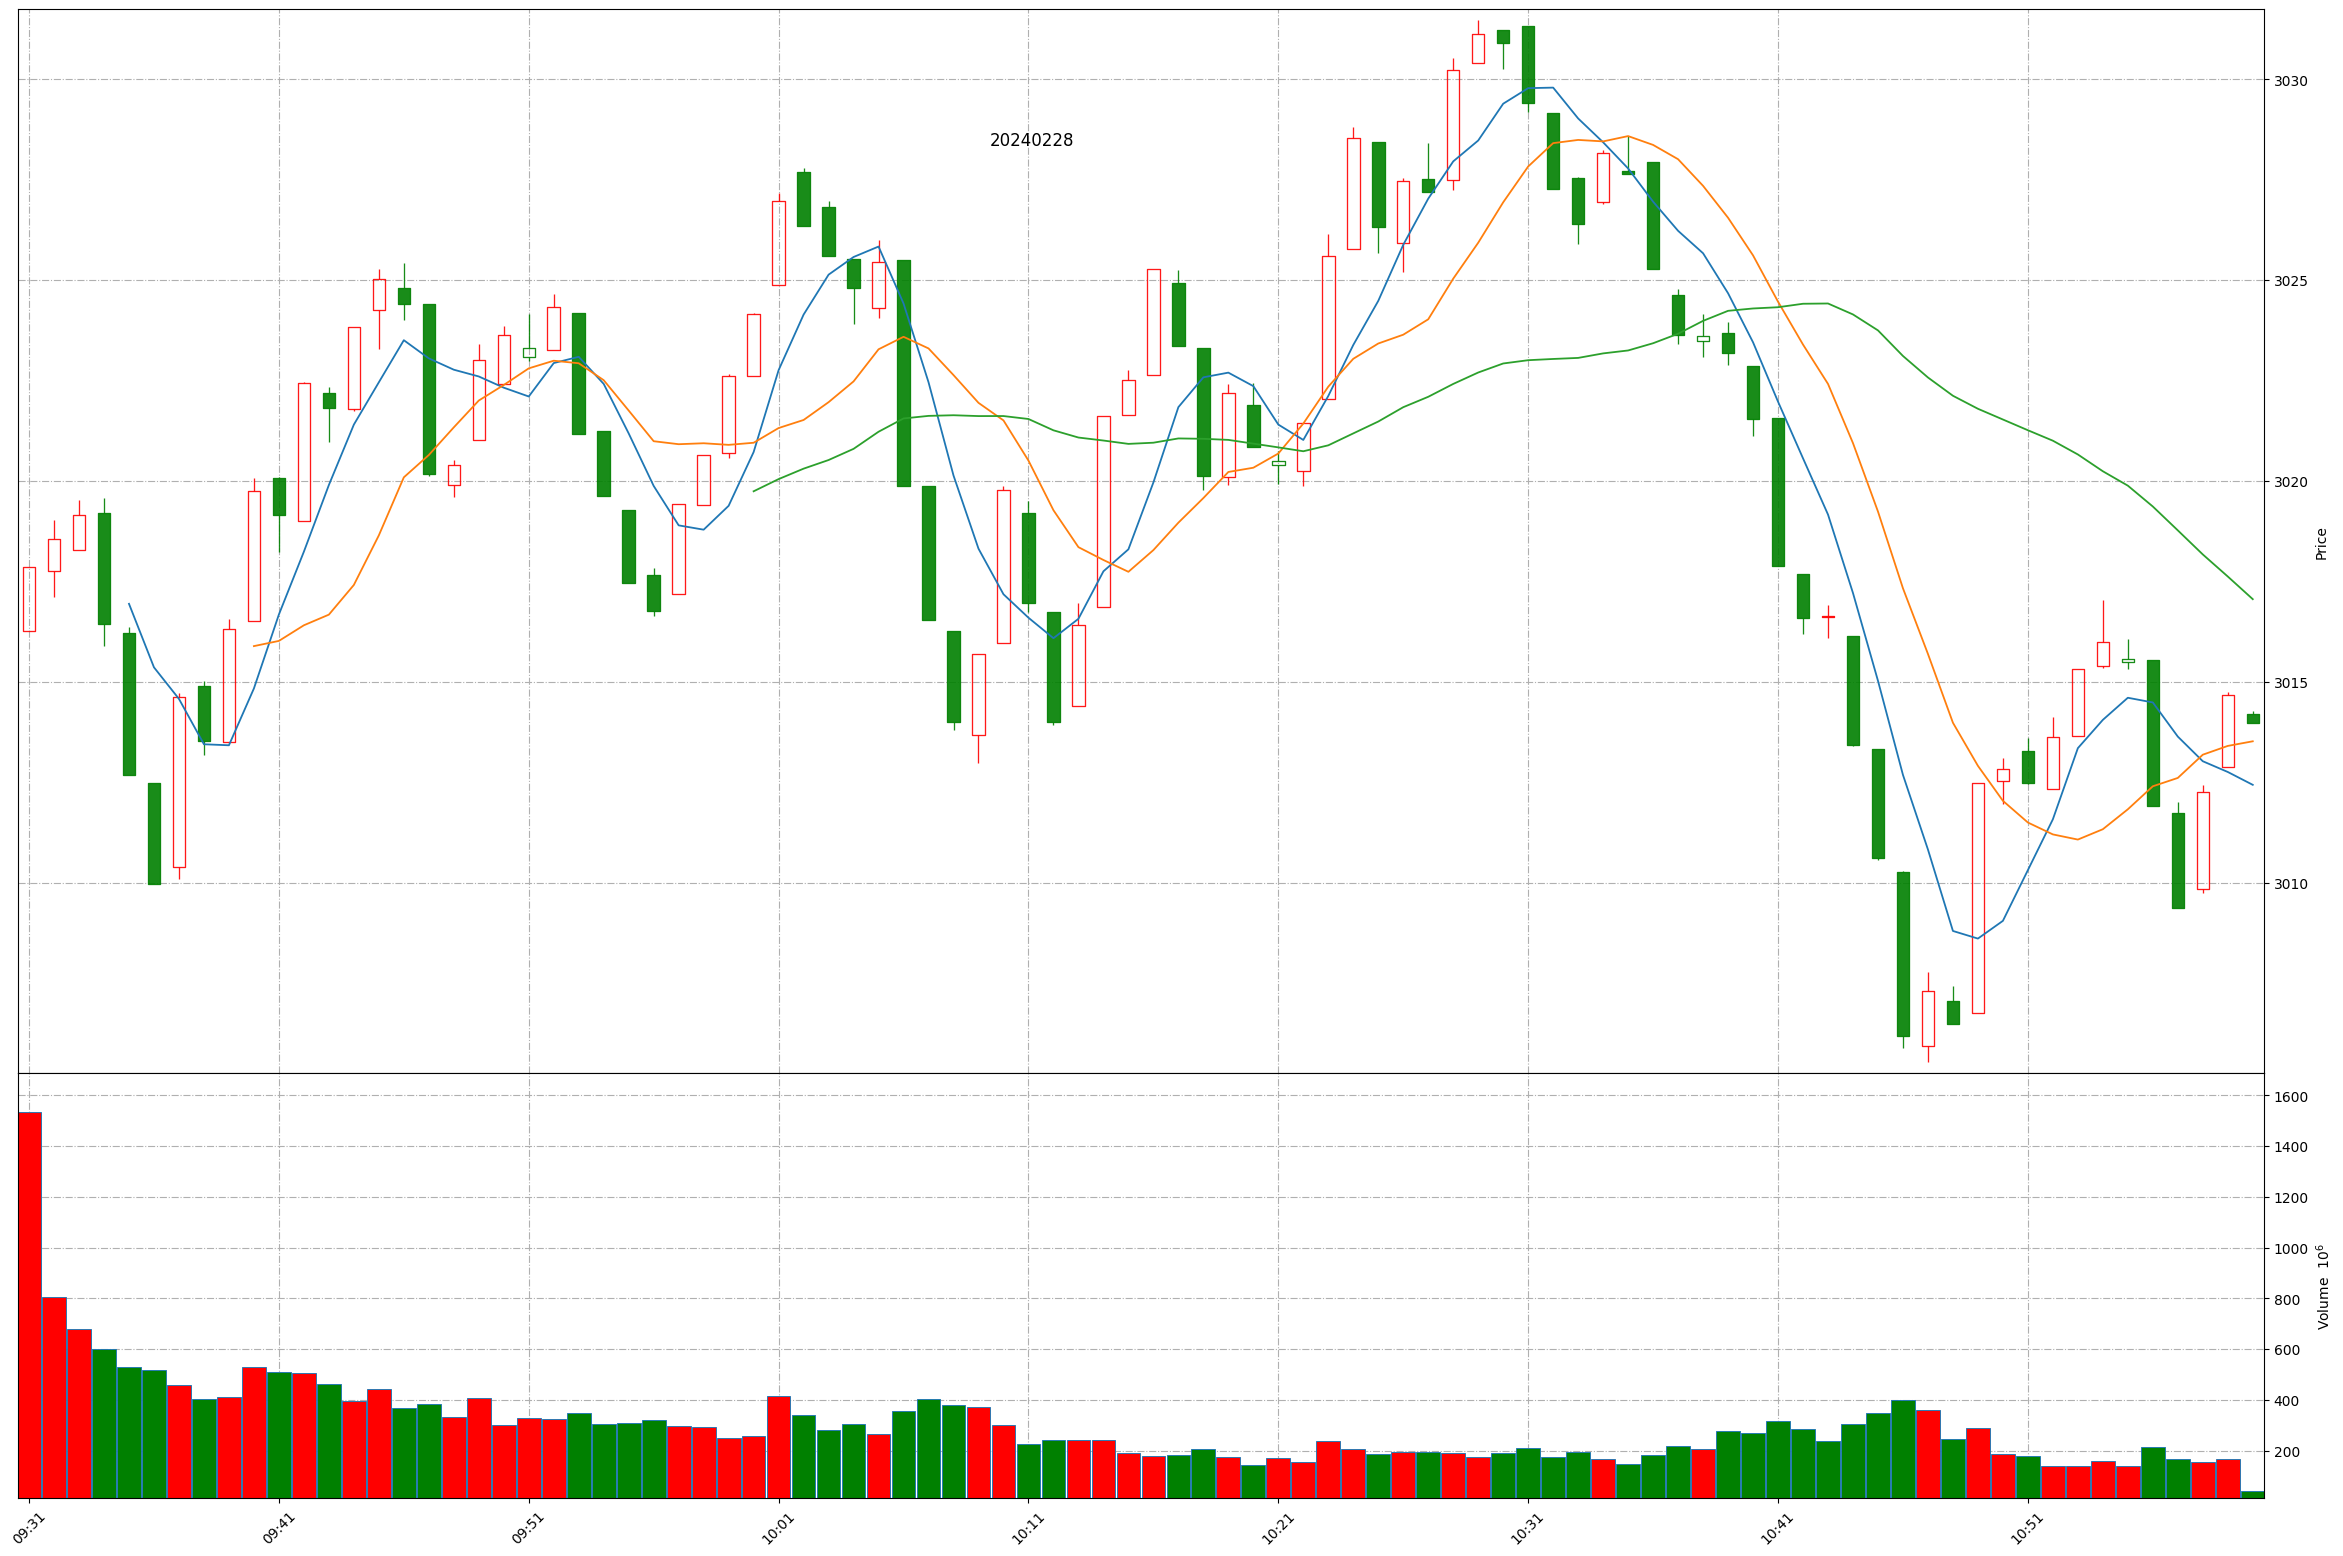
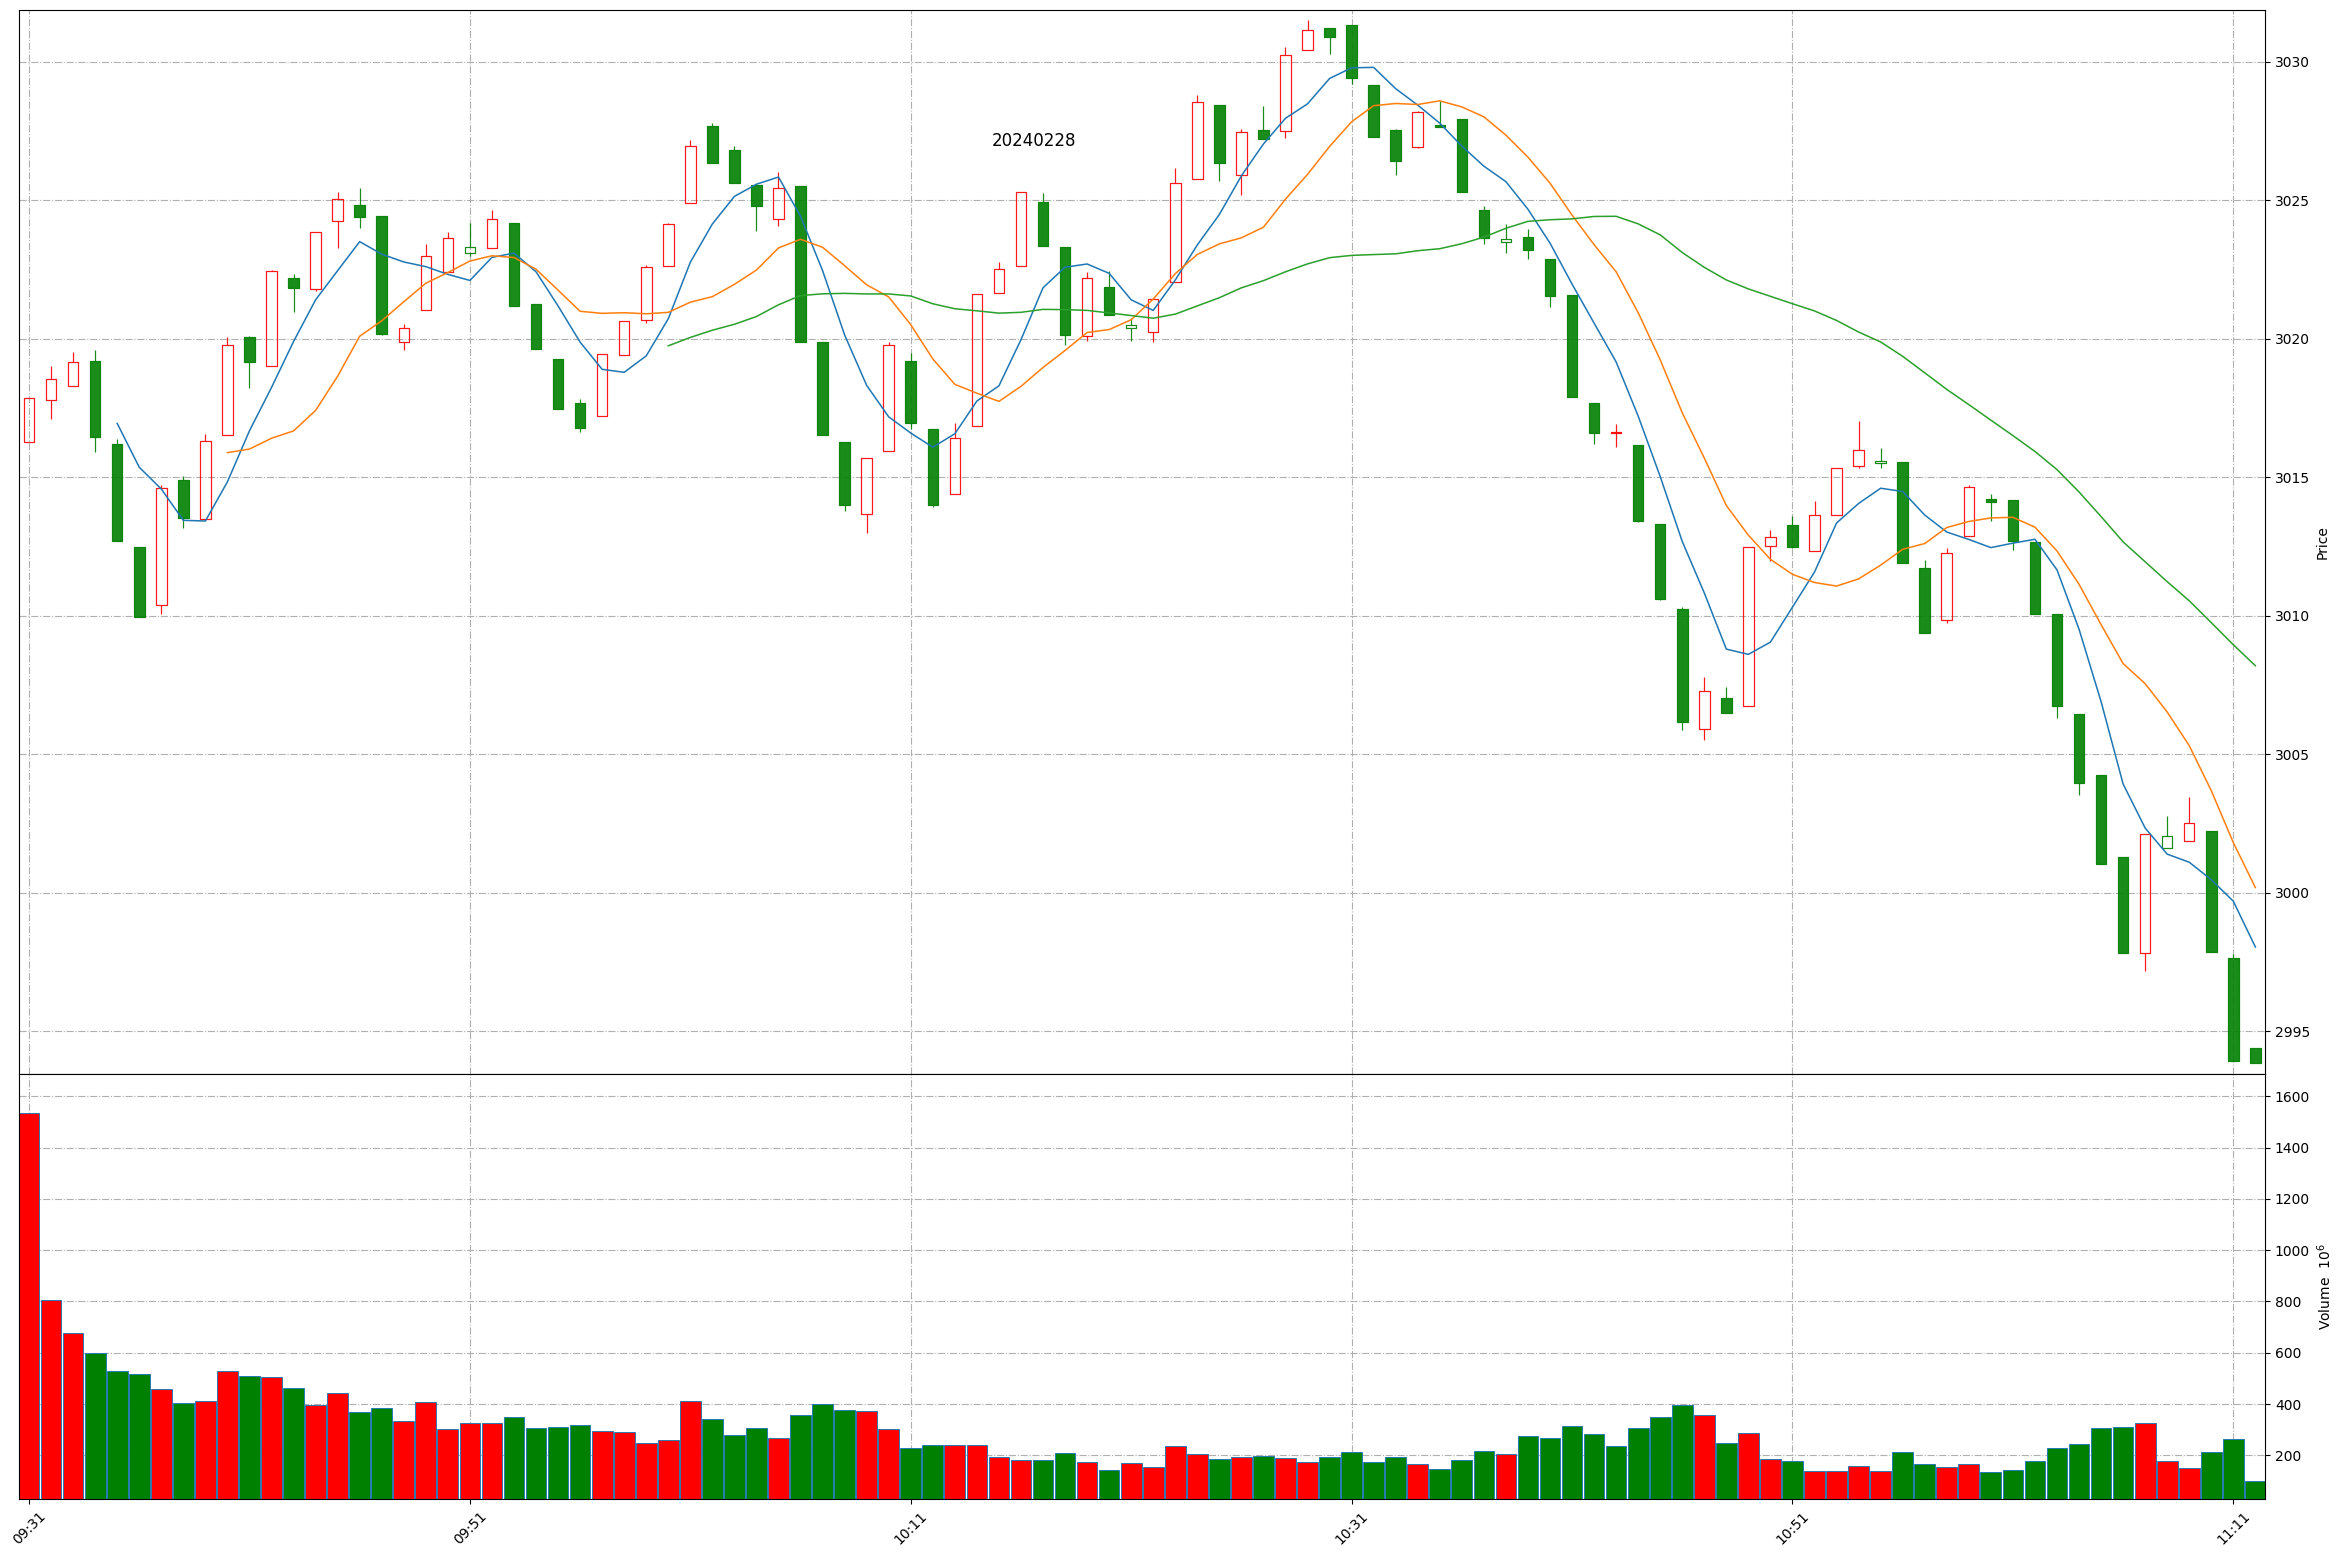
Github action update at 2024-02-28 11:11:49.

diff --git a/README.md b/README.md
@@ -1,11 +1,11 @@
 
 # Daily-A-share-market-quotes 每日 A 股指数（5min 更新）- 20240228
 
-### 上证指数 20240228 10:59
+### 上证指数 20240228 11:11
 ![](./fig/2024/2/20240228-sh000001.png)
 
-### 深证成指 20240228 10:59
+### 深证成指 20240228 11:11
 ![](./fig/2024/2/20240228-sz399001.png)
 
-### 北证50 20240228 10:59
+### 北证50 20240228 11:11
 ![](./fig/2024/2/20240228-bj899050.png)
